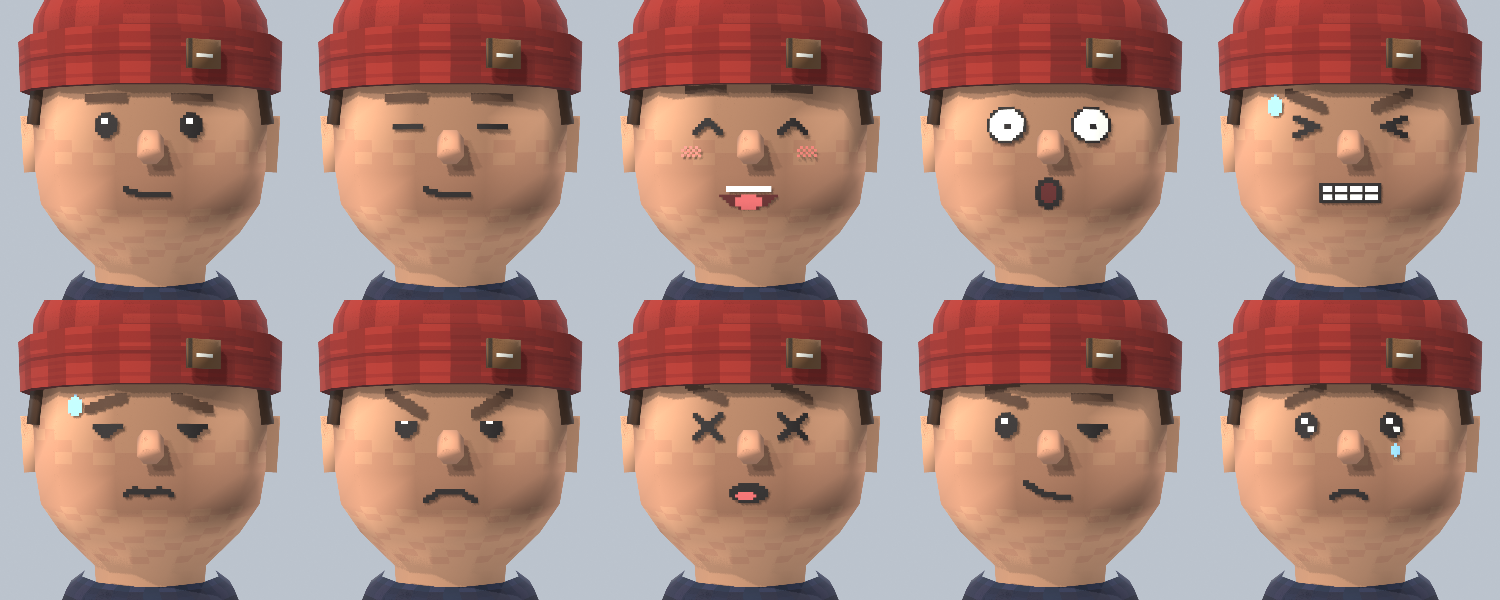
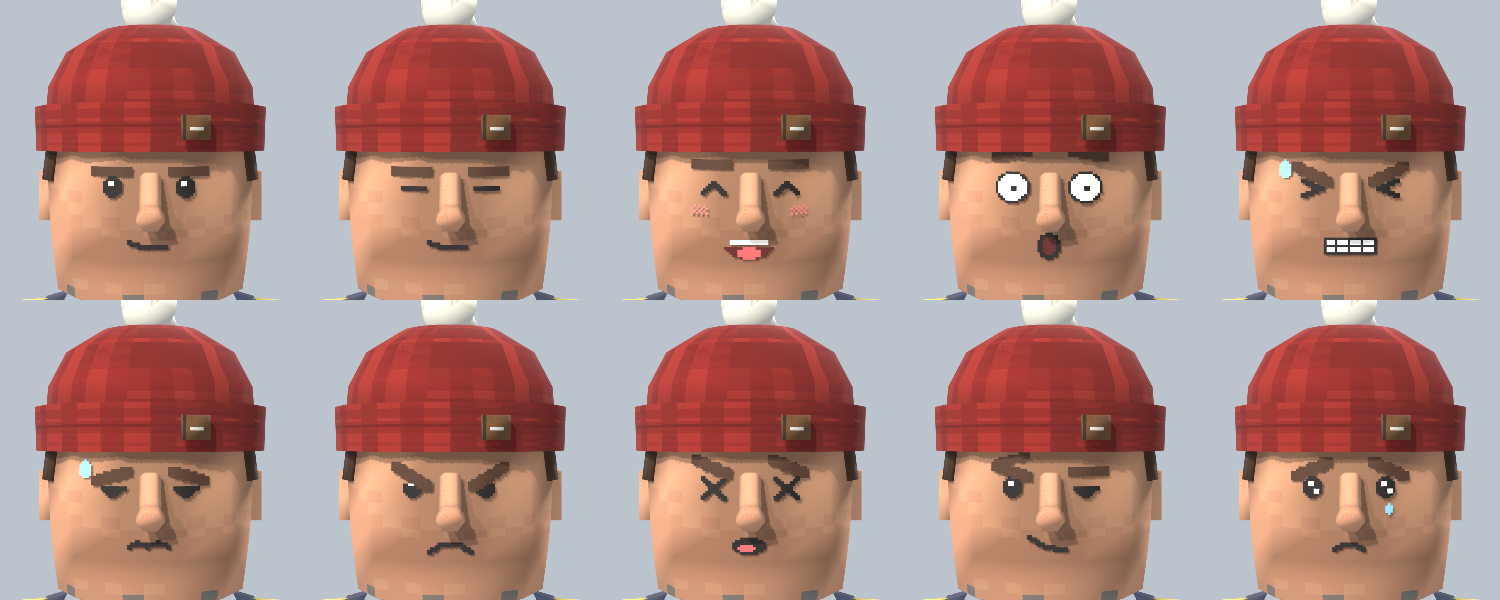
Crew: a grown man's face (square jaw, a proper nose, heavier brows, stubble)
Same eyes and expressions; the head reshaped so it stops reading as a baby's.
Fixed a nose tip that shot 27 cm forward (its ray met the bridge from inside).

diff --git a/art/fisherman.py b/art/fisherman.py
@@ -91,9 +91,10 @@ def parts():
     # ================================================================== the head: a young face, the beanie over it
     tube(head, [
         ((0.0, 1.47, 0.02), 0.074, 0.074, W(torso=0.5, head=0.5)),
-        ((0.0, 1.515, 0.026), 0.078, 0.08, hw),                # a proper neck, into the jaw
-        ((0.0, 1.548, 0.038), 0.094, 0.1, hw),                 # under the jaw
-        ((0.0, 1.58, 0.046), 0.108, 0.114, hw),                # the jaw and the mouth
+        ((0.0, 1.512, 0.026), 0.078, 0.08, hw),                # a proper neck, into the jaw
+        ((0.0, 1.528, 0.034), 0.084, 0.092, hw),               # under the jaw: a crisp line
+        ((0.0, 1.538, 0.05), 0.104, 0.112, hw),                # the jaw: wide and square
+        ((0.0, 1.58, 0.048), 0.11, 0.116, hw),                 # the mouth
         ((0.0, 1.612, 0.042), 0.114, 0.12, hw),                # the cheeks
         ((0.0, 1.66, 0.036), 0.117, 0.121, hw),                # the eyes
         ((0.0, 1.70, 0.03), 0.115, 0.119, hw),                 # the brow
@@ -109,13 +110,17 @@ def parts():
         y = FACE_Y0 + FACE_H * j / FACE_ROWS
         rows.append([(face_at(FACE_W / 2 - FACE_W * i / FACE_COLS, y, 0.0035), hw) for i in range(FACE_COLS + 1)])
     sheet(head, rows, R["face_fx"], K.MAT_VISOR, inside=(0.0, 1.64, 0.0), rims=False)
-    nose = [face_at(0.0, 1.642, 0.004), face_at(0.0, 1.626, 0.016)]
-    pipe(head, nose, 0.011, 6, hw, P["nose"], caps=True)
+    # a man's nose: a straight bridge down from the brow to a tip
+    # (every point found on the bare face first: a ray that meets the bridge from inside gives up)
+    bridge = [face_at(0.0, 1.664, 0.002), face_at(0.0, 1.636, 0.012), face_at(0.0, 1.622, 0.02)]
+    tip = [face_at(0.0, 1.627, 0.016), face_at(0.0, 1.62, 0.024)]
+    pipe(head, bridge, 0.0105, 6, hw, P["skin"], caps=False)
+    pipe(head, tip, 0.0135, 6, hw, P["nose"], caps=True)
     for x in (1.0, -1.0):
         # the ears; sideburns down from under the beanie
         s0 = len(head.godot)
         plate(head, (x * 0.118, 1.637, 0.03), (0.0, 0.0, -x), (0.0, 1.0, 0.0), 0.036, 0.056, 0.02, hw, P["skin"])
-        K.seat(head, s0, (x, 0.0, 0.0), sink=0.004)
+        K.seat(head, s0, (x, 0.0, 0.0), sink=0.004, turn=False)
         s0 = len(head.godot)
         plate(head, (x * 0.112, 1.677, 0.075), (0.0, 0.0, -x), (0.0, 1.0, 0.0), 0.024, 0.042, 0.006, hw, P["hair"])
         K.seat(head, s0, (x, 0.0, 0.0))
@@ -312,10 +317,13 @@ def paint(p, c):
     for dx in (-5, -4, 4, 5):
         for dy in (14, 15):
             p.rect(fx + (fu + dx) % fw, fy + dy, 1, 1, (0.95, 0.5, 0.42), 0.5)
-    for dx in range(-6, 7):
-        for dy in range(6, 11):
-            if (dx * 7 + dy * 13) % 3 == 0:
-                p.rect(fx + (fu + dx) % fw, fy + dy, 1, 1, K.shade(SKIN, 0.68), 0.55)
+    for dx in range(-9, 10):
+        for dy in range(2, 13):
+            if abs(dx) > 7 and dy > 8:
+                continue
+            p.rect(fx + (fu + dx) % fw, fy + dy, 1, 1, K.shade(SKIN, 0.86), 0.45)
+            if dy > 4 and (dx * 7 + dy * 13) % 4 == 0:
+                p.rect(fx + (fu + dx) % fw, fy + dy, 1, 1, (0.4, 0.29, 0.24), 0.35)
 
     # --- the eye: white, a dark pupil looking a touch to one side, a glint, the lid's line
     ex, ey, ew, eh = R["eye"]
@@ -407,7 +415,7 @@ def faces_strip():
                 rect(c, x - th // 2, y - th // 2, th, th, col)
 
     L, R2 = 18, 46          # the eyes' columns (as you look at him), their row, the brows', the mouth's
-    EY, BY, MY = 37, 45, 13
+    EY, BY, MY = 37, 44, 13
 
     def eyes(c, glint=True, rx=3, ry=4):
         for x in (L, R2):
@@ -416,8 +424,8 @@ def faces_strip():
                 rect(c, x, EY + 1, 2, 2, WHITE)
 
     def brows(c, left_tilt=0, right_tilt=0, lift=0):
-        line(c, [(L - 6, BY + lift - left_tilt), (L + 5, BY + lift + left_tilt)], BROW, 3)
-        line(c, [(R2 - 5, BY + lift + right_tilt), (R2 + 6, BY + lift - right_tilt)], BROW, 3)
+        line(c, [(L - 7, BY + lift - left_tilt), (L + 5, BY + lift + left_tilt)], BROW, 4)
+        line(c, [(R2 - 5, BY + lift + right_tilt), (R2 + 7, BY + lift - right_tilt)], BROW, 4)
 
     def blush(c):
         for x0 in (L - 8, R2 + 2):
